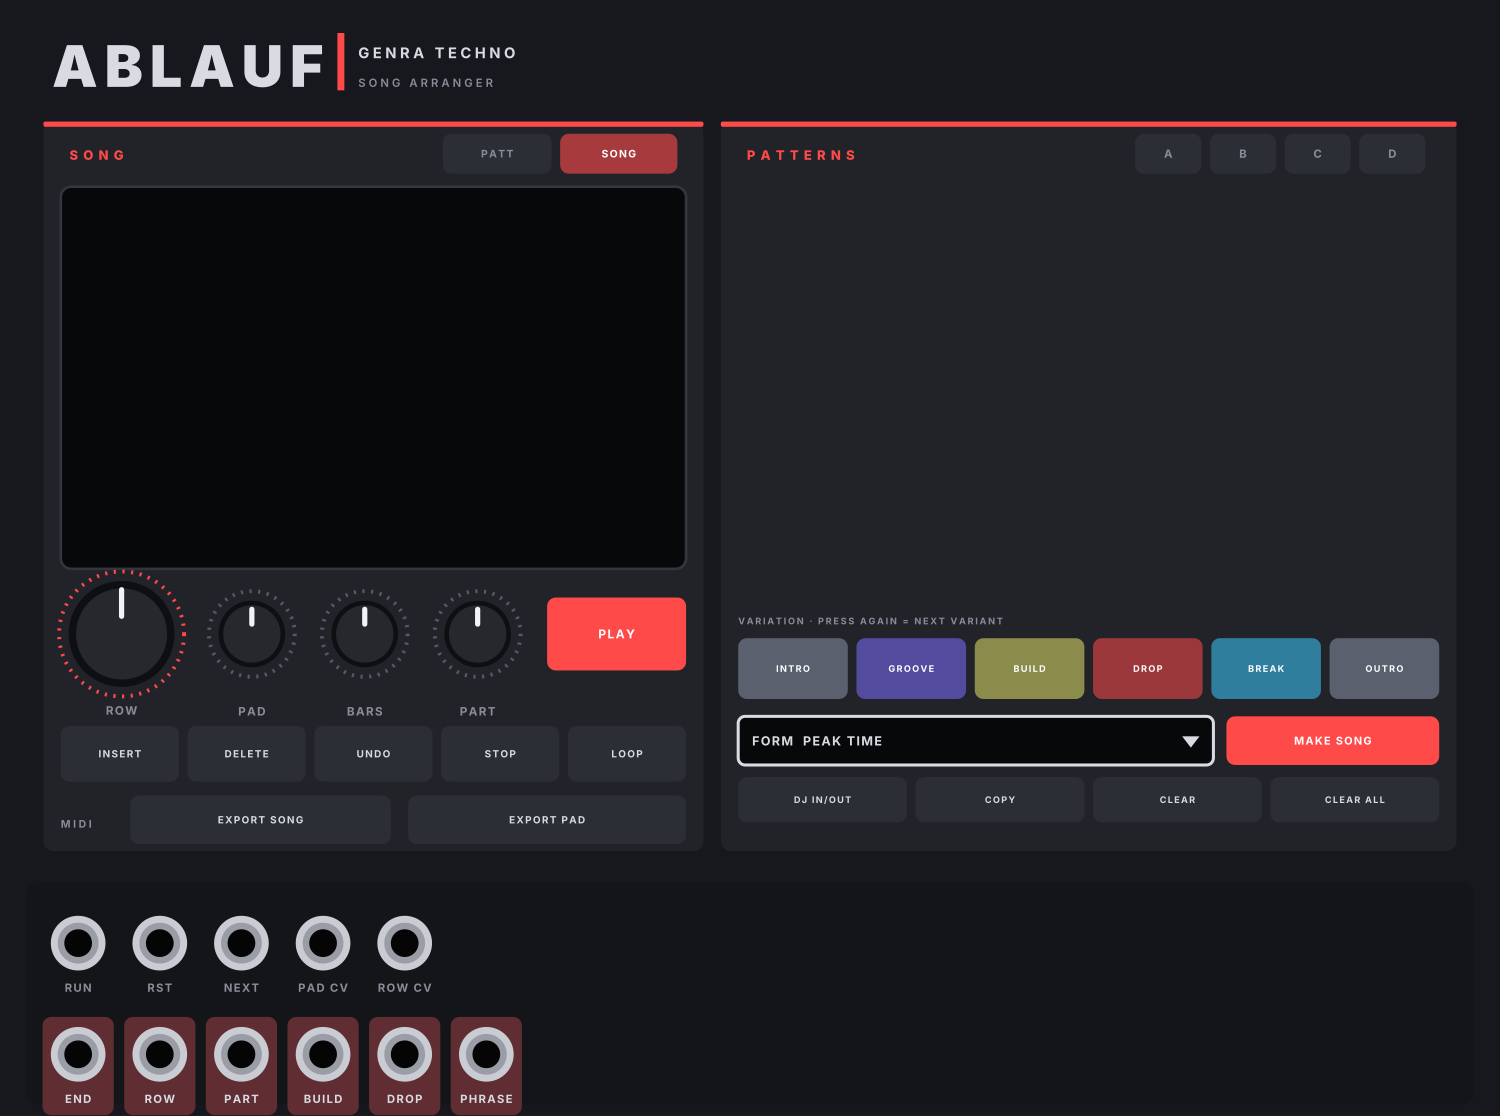
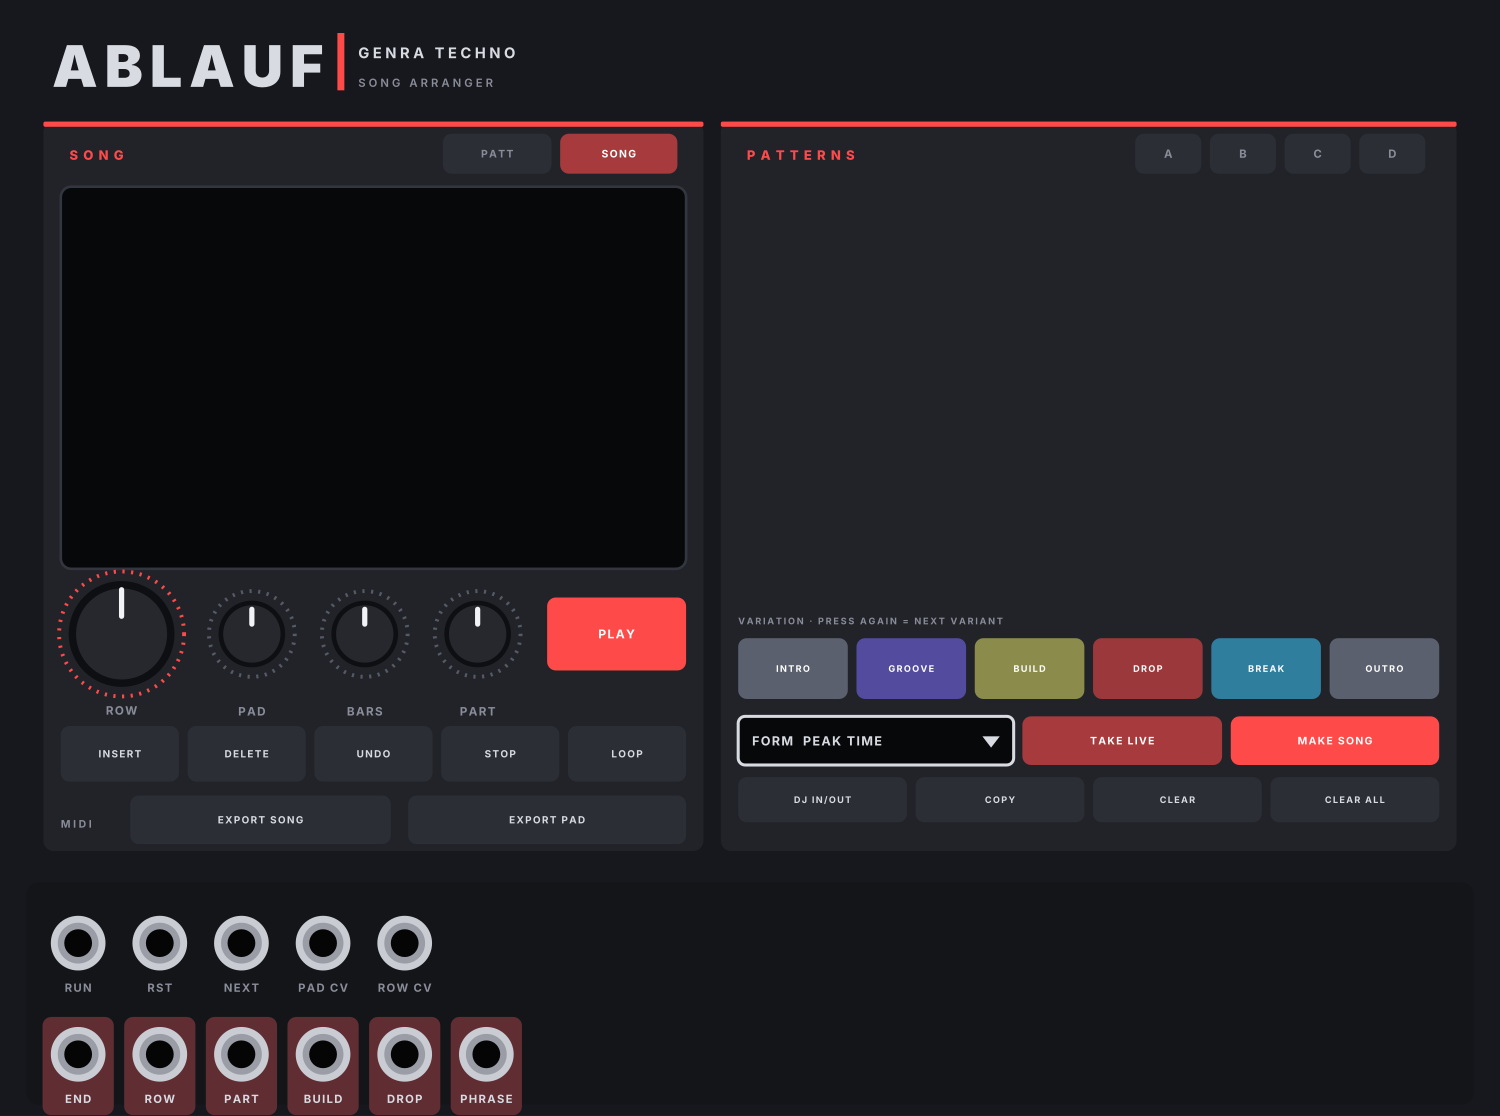
GENRA TECHNO 2.0.3: ABLAUF TAKE LIVE takes the LIVE song (one pad per section)
Press twice: pads cleared, every section of the LIVE song gets its own pad with the current pattern,
the rows are the LIVE song's sections, DJ IN/OUT as there, ABLAUF in SONG mode. UNDO brings it back.
The FORM field is narrower (name only, shrunk to fit).

Claude-Session: https://claude.ai/code/session_01ETAzGv3rQKcYHq8CRkApoo

Changed region(s): [[0.6747, 0.6398, 0.828, 0.7007], [0.8587, 0.6398, 0.92, 0.6703]]

diff --git a/src/TechnoAblauf.cpp b/src/TechnoAblauf.cpp
@@ -219,10 +219,11 @@ struct TechnoAblaufWidget : ModuleWidget {
 	struct Snap {
 		std::vector<Section> rows;
 		std::vector<Pad> pads;
+		bool dj = true;
 	};
 	std::deque<Snap> undo;
 	std::vector<std::pair<SongScript*, float>> trash;
-	int armed = 0; // 1 copy (source), 2 copy (target), 3 clear, 4 clear all (press again)
+	int armed = 0; // 1 copy (source), 2 copy (target), 3 clear, 4 clear all, 5 take live (press again)
 	int copySrc = -1;
 	float armT = 0.f;
 	float last[TechnoAblauf::NUM_PARAMS] = {-1, -1, -1, -1};
@@ -238,6 +239,7 @@ struct TechnoAblaufWidget : ModuleWidget {
 		Snap s;
 		s.rows = mod->rows;
 		s.pads.assign(mod->pads, mod->pads + 64);
+		s.dj = mod->dj;
 		undo.push_back(s);
 		while (undo.size() > 12)
 			undo.pop_front();
@@ -326,6 +328,52 @@ struct TechnoAblaufWidget : ModuleWidget {
 		mod->lastPad = at;
 		mod->dirty = true;
 		return at;
+	}
+	/** TAKE LIVE: GENRA TECHNO's LIVE song as it is planned now becomes ABLAUF's song. The pads are cleared; every
+	 * section gets a pad of its own with the pattern GENRA TECHNO plays (INTRO 1, GROOVE 1, BUILD 1, DROP 1 …), the rows
+	 * are the sections as they are (bars, part, build, the bigger later drops), DJ IN/OUT as in the LIVE song. In SONG
+	 * mode it then sounds the same, and every section can be changed on its own pad. UNDO brings back what was there. */
+	void takeLive() {
+		GenraTechno* g = gm();
+		if (!g)
+			return;
+		const GenraTechno::Plan& plan = g->plans[g->planCur.load()];
+		int n = std::min(plan.n, 96);
+		if (n <= 0)
+			return;
+		pushUndo();
+		for (int i = 0; i < 64; i++)
+			mod->pads[i] = Pad();
+		mod->rows.clear();
+		int count[NUM_PARTS] = {};
+		int lastOfPart[NUM_PARTS];
+		for (int k = 0; k < NUM_PARTS; k++)
+			lastOfPart[k] = -1;
+		int next = 0;
+		for (int i = 0; i < n; i++) {
+			Section s = plan.s[i];
+			int part = clamp((int) s.part, 0, NUM_PARTS - 1);
+			int at = next < 64 ? next++ : lastOfPart[part];  // (more than 64 sections: the last pad of the part again)
+			if (at < 0)
+				at = 0;
+			if (!mod->pads[at].used) {
+				Pad& d = mod->pads[at];
+				d.used = true;
+				d.pat = g->pat;
+				d.part = part;
+				d.name = string::f("%s %d", PART_NAMES[part], ++count[part]);
+			}
+			lastOfPart[part] = at;
+			s.pad = (uint8_t) at;
+			mod->rows.push_back(s);
+		}
+		mod->dj = g->liveDj;
+		mod->lastPad = 0;
+		mod->bank = 0;
+		mod->mode = 1;
+		mod->selRow = 0;
+		mod->params[TechnoAblauf::ROW_PARAM].setValue(0.f);
+		mod->dirty = true;
 	}
 	void makeSong() {
 		GenraTechno* g = gm();
@@ -492,7 +540,13 @@ struct TechnoAblaufWidget : ModuleWidget {
 		}
 		TField* fo = place<TField>(this, L::F_FORM);
 		fo->prefix = "FORM";
-		fo->value = [=]() { return std::string(FORMS[mod ? mod->form : 0].name); };
+		// the field is narrow (TAKE LIVE beside it): the name without the minutes, which the list shows
+		fo->value = [=]() {
+			std::string n = FORMS[mod ? mod->form : 0].name;
+			size_t d = n.find(" ·");
+			return d == std::string::npos ? n : n.substr(0, d);
+		};
+		fo->fit = true;
 		fo->count = []() { return 6; };
 		fo->current = [=]() { return mod ? mod->form : 0; };
 		fo->item = [](int i) { return std::string(FORMS[i].name); };
@@ -507,6 +561,23 @@ struct TechnoAblaufWidget : ModuleWidget {
 		mk->act = [=]() {
 			if (mod)
 				makeSong();
+		};
+		TButton* tk = place<TButton>(this, L::BTN_TAKE);
+		tk->labelOf = [=]() { return std::string(armed == 5 ? "SURE?" : "TAKE LIVE"); };
+		tk->col = dark(RED, 0.6f);
+		tk->textCol = WHITE;
+		tk->lit = [=]() { return armed == 5; };
+		tk->act = [=]() {
+			if (!mod)
+				return;
+			if (armed == 5) {
+				armed = 0;
+				takeLive();
+			}
+			else {
+				armed = 5;
+				armT = 4.f;
+			}
 		};
 		TButton* dj = place<TButton>(this, L::BTN_DJ);
 		dj->label = "DJ IN/OUT";
@@ -613,6 +684,7 @@ struct TechnoAblaufWidget : ModuleWidget {
 			mod->rows = undo.back().rows;
 			for (int i = 0; i < 64 && i < (int) undo.back().pads.size(); i++)
 				mod->pads[i] = undo.back().pads[i];
+			mod->dj = undo.back().dj;
 			undo.pop_back();
 			mod->dirty = true;
 		};

diff --git a/src/TechnoAblaufLayout.hpp b/src/TechnoAblaufLayout.hpp
@@ -29,8 +29,9 @@ static const float BTN_VAR2[4] = {112.240f, 73.486f, 12.620f, 7.000f}; // button
 static const float BTN_VAR3[4] = {125.860f, 73.486f, 12.620f, 7.000f}; // button
 static const float BTN_VAR4[4] = {139.480f, 73.486f, 12.620f, 7.000f}; // button
 static const float BTN_VAR5[4] = {153.100f, 73.486f, 12.620f, 7.000f}; // button
-static const float F_FORM[4] = {85.000f, 82.486f, 54.720f, 5.600f}; // field
-static const float BTN_MAKE[4] = {141.220f, 82.486f, 24.500f, 5.600f}; // button
+static const float F_FORM[4] = {85.000f, 82.486f, 31.720f, 5.600f}; // field
+static const float BTN_TAKE[4] = {117.720f, 82.486f, 23.000f, 5.600f}; // button
+static const float BTN_MAKE[4] = {141.720f, 82.486f, 24.000f, 5.600f}; // button
 static const float BTN_DJ[4] = {85.000f, 89.486f, 19.430f, 5.200f}; // button
 static const float BTN_COPY[4] = {105.430f, 89.486f, 19.430f, 5.200f}; // button
 static const float BTN_CLEAR[4] = {125.860f, 89.486f, 19.430f, 5.200f}; // button

diff --git a/src/TechnoUI.hpp b/src/TechnoUI.hpp
@@ -121,6 +121,7 @@ struct TButton : widget::OpaqueWidget {
 struct TField : widget::OpaqueWidget {
 	std::string prefix;
 	NVGcolor col = TXT;
+	bool fit = false; // shrink a long value to the field (else it is cut)
 	std::function<std::string()> value;
 	std::function<int()> count, current;
 	std::function<std::string(int)> item;
@@ -133,7 +134,10 @@ struct TField : widget::OpaqueWidget {
 		float x = 4.5f;
 		if (!prefix.empty())
 			x += text(args.vg, bold(), x, box.size.y / 2 + 0.5f, prefix, 8.f, mixc(col, BG, 0.35f)) + 5.f;
-		text(args.vg, bold(), x, box.size.y / 2 + 0.5f, v, 8.5f, col);
+		if (fit)
+			textFit(args.vg, bold(), x, box.size.y / 2 + 0.5f, v, 8.5f, box.size.x - 12.f - x, col);
+		else
+			text(args.vg, bold(), x, box.size.y / 2 + 0.5f, v, 8.5f, col);
 		nvgRestore(args.vg);
 		float ax = box.size.x - 6.f, ay = box.size.y / 2;
 		nvgBeginPath(args.vg);

diff --git a/tools/ablauf_panel.py b/tools/ablauf_panel.py
@@ -41,8 +41,9 @@ for i in range(6):
     P.button(f"BTN_VAR{i}", px + 2 + i * (bw2 + 1.0), vy + 2.6, bw2, 7.0, ["INTRO", "GROOVE", "BUILD", "DROP", "BREAK", "OUTRO"][i],
              mix(PART_COLS[i], 0.55), "#ffffff", 1.05)
 fy = vy + 11.6
-P.field("F_FORM", px + 2, fy, pw - 30, 5.6, "FORM  PEAK TIME")
-P.button("BTN_MAKE", px + pw - 26.5, fy, 24.5, 5.6, "MAKE SONG", RED, "#ffffff", 1.25)
+P.field("F_FORM", px + 2, fy, pw - 53, 5.6, "FORM  PEAK TIME")
+P.button("BTN_TAKE", px + pw - 50, fy, 23, 5.6, "TAKE LIVE", mix(RED, 0.6), "#ffffff", 1.2)
+P.button("BTN_MAKE", px + pw - 26, fy, 24, 5.6, "MAKE SONG", RED, "#ffffff", 1.2)
 by = fy + 7.0
 bw3 = (pw - 4 - 3 * 1.0) / 4
 for i, (n, s) in enumerate((("BTN_DJ", "DJ IN/OUT"), ("BTN_COPY", "COPY"), ("BTN_CLEAR", "CLEAR"), ("BTN_CLEARALL", "CLEAR ALL"))):

diff --git a/CHANGELOG.md b/CHANGELOG.md
@@ -1,5 +1,14 @@
 # Changelog
 
+## 2.0.3 (18 Nov 2026, test build, no release)
+
+- ABLAUF: new key **TAKE LIVE** beside MAKE SONG. Press twice (SURE?): ABLAUF takes GENRA TECHNO's LIVE song as it is
+  planned now. The pads are cleared, every section gets a pad of its own with the pattern GENRA TECHNO plays (INTRO 1,
+  GROOVE 1, BUILD 1, DROP 1, … DROP 2 …), the song rows are the sections as they are (bars, part, build, the bigger later
+  drops), DJ IN/OUT as in the LIVE song, and ABLAUF goes to SONG. It sounds the same; now every section can be changed on
+  its own pad. UNDO brings back what was there. (EVOLVE and PERFORM jumps are played live and are not taken over.)
+- The FORM field is narrower: it shows the form's name, the list its length too.
+
 ## 2.0.2 (16 Nov 2026, test build, no release)
 
 - The choices under the display are narrower: FAM, STYLE, KEY, the new **SCALE** and BUILD. SCALE: AUTO (the style's),

diff --git a/docs/UEBERSICHT.md b/docs/UEBERSICHT.md
@@ -7,7 +7,7 @@ Plugin `GenraTechno` (Marke Genra), vier Module. Stand 2.0.0 (16. Nov. 2026).
 | `src/tg/Engine.hpp/.cpp` | Engine ohne Rack: Stile, Generator mit Bewertung, Songplan, Builds, GROW, `resolveStep`, MIDI |
 | `src/TechnoModule.hpp`, `src/GenraTechno.cpp` | Hauptmodul: Player, LIVE-Song, PERFORM, Panel, Registry/Links |
 | `src/TechnoGrid.cpp` | GRID (Editor, REC über MIDI) |
-| `src/TechnoAblauf.cpp` | ABLAUF (Pads, Song-Zeilen, MAKE SONG, übergibt `SongScript` ans Hauptmodul) |
+| `src/TechnoAblauf.cpp` | ABLAUF (Pads, Song-Zeilen, MAKE SONG, TAKE LIVE übernimmt den LIVE-Song, übergibt `SongScript` ans Hauptmodul) |
 | `src/TechnoMod.cpp` | MOD (4 CV-Spuren, Matrix pro Teil, Song-View) |
 | `src/TechnoUI.hpp` | Look: Farben, Taster, Dropdowns (Mausrad) |
 | `src/link/` | Link-Hub der GENRA-Plugins (Kopie aus Genra-for-Vcv), für Follow |

diff --git a/README.md b/README.md
@@ -68,6 +68,8 @@ REC writes MIDI notes at the playing step (right-click › MIDI input).
   COPY (from, to), CLEAR (then a pad), CLEAR ALL (press twice; UNDO brings it back). Right-click a pad: MIDI export.
 - **SONG**: the rows (pad, bars, part, build). ROW picks a row, PAD, BARS and PART change it; INSERT puts the last pad
   after it, DELETE, UNDO, LOOP (the selected row repeats). FORM + MAKE SONG builds a song in a club form from the pads.
+  TAKE LIVE (press twice) takes GENRA TECHNO's LIVE song: one pad per section with the pattern it plays, the rows as
+  in the LIVE song (UNDO: back).
   DJ IN/OUT: intro and outro drums only. PLAY plays the song from the selected row (SONG mode), STOP stops.
   EXPORT SONG / EXPORT PAD write MIDI.
 - Inputs: RUN, RST, NEXT, PAD CV, ROW CV. Outputs: END, ROW, PART (0–5 V), BUILD (gate), DROP, PHRASE.

diff --git a/docs/MERKLISTE.md b/docs/MERKLISTE.md
@@ -1,8 +1,9 @@
 # GENRA TECHNO – Merkliste (nur Offenes)
 
-Stand 16. Nov. 2026, nach Build 2.0.2 (dev, kein Release).
+Stand 18. Nov. 2026, nach Build 2.0.3 (dev, kein Release).
 
 ## Zu testen in Rack
+- 2.0.3: ABLAUF TAKE LIVE (zweimal drücken): Pads pro Abschnitt, Zeilen wie im LIVE-Song, klingt gleich; UNDO; FORM-Feld lesbar.
 - 2.0.2: SCALE-Dropdown (Wechsel behält Rhythmus), Follow mit GENRA/GENRA Instruments 2.40.0 (Bass, Melody, Pad, Drums, Stab), Presets folgen dem Stil.
 - 2.0.1: MAIN-Loop beim Start, LIVE SONG, Klick in die Zeitleiste (Sprung am Taktende), < PART / PART >, kürzeres Intro.
 - Hauptmodul allein: PLAY, LIVE-Song läuft durch (Intro bis Outro), Builds hörbar verschieden, PERFORM, FILL, MUTE/LOCK.
